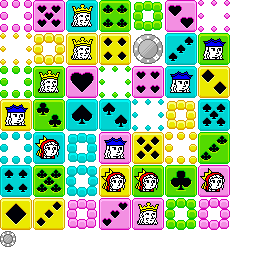
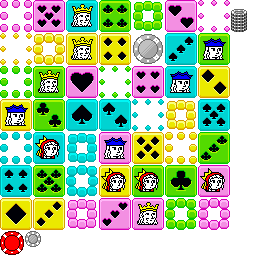
Utilisation d'un jeton rouge pour signifier 6 lignes.

Changed region(s): [[0.0, 0.875, 0.1562, 1.0], [0.875, 0.0312, 0.9688, 0.125]]

diff --git a/puzzlesuit/GameFlow.swift b/puzzlesuit/GameFlow.swift
@@ -236,16 +236,34 @@ class GameFlow {
         }
         chipPreview.removeAll()
         
-        if receivedChips < Board.columns {
-            for index in 0..<receivedChips {
-                let preview = factory.sprite(5)
-                preview.width /= 2
-                preview.height /= 2
-                preview.left = board.left + preview.width * GLfloat(index)
-                preview.bottom = board.top - 4
-                factory.updateLocationOfSprite(preview)
-                self.chipPreview.append(preview)
+        let bottomMargin : GLfloat = 4
+        let rightMargin : GLfloat = 1
+        
+        let chipStack = Board.columns
+        let redChip = chipStack * Board.columns
+        
+        var total = receivedChips
+        for var index = 0; total > 0; index++ {
+            let definition : Int
+            
+            if total >= redChip {
+                total -= redChip
+                definition = 7
+            } else if total >= chipStack {
+                total -= chipStack
+                definition = 6
+            } else {
+                total--
+                definition = 5
             }
+            
+            let preview = factory.sprite(definition)
+            preview.width /= 2
+            preview.height /= 2
+            preview.left = board.left + (preview.width + rightMargin) * GLfloat(index)
+            preview.bottom = board.top - bottomMargin
+            factory.updateLocationOfSprite(preview)
+            self.chipPreview.append(preview)
         }
     }
     
